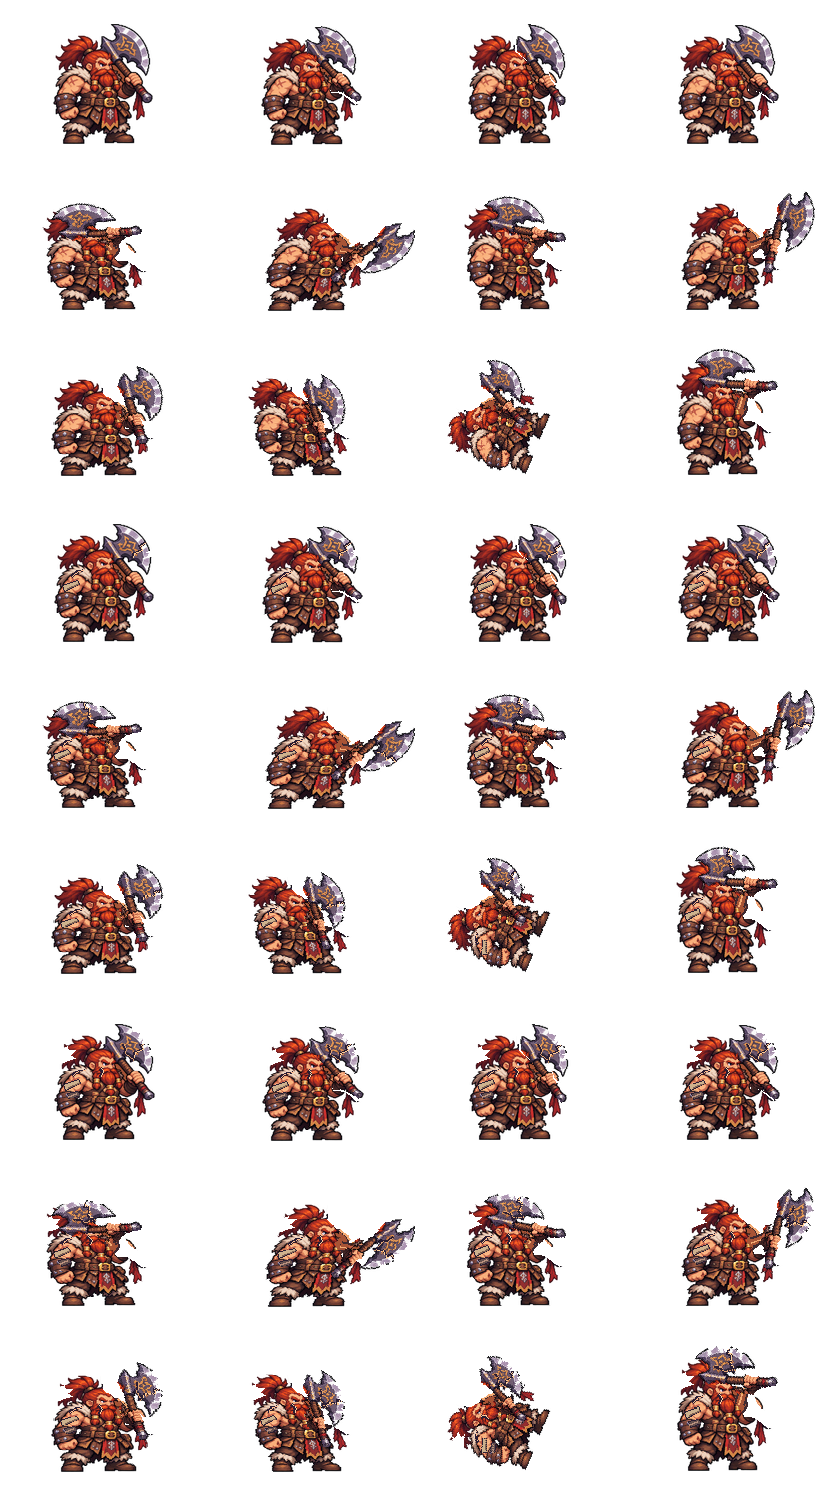
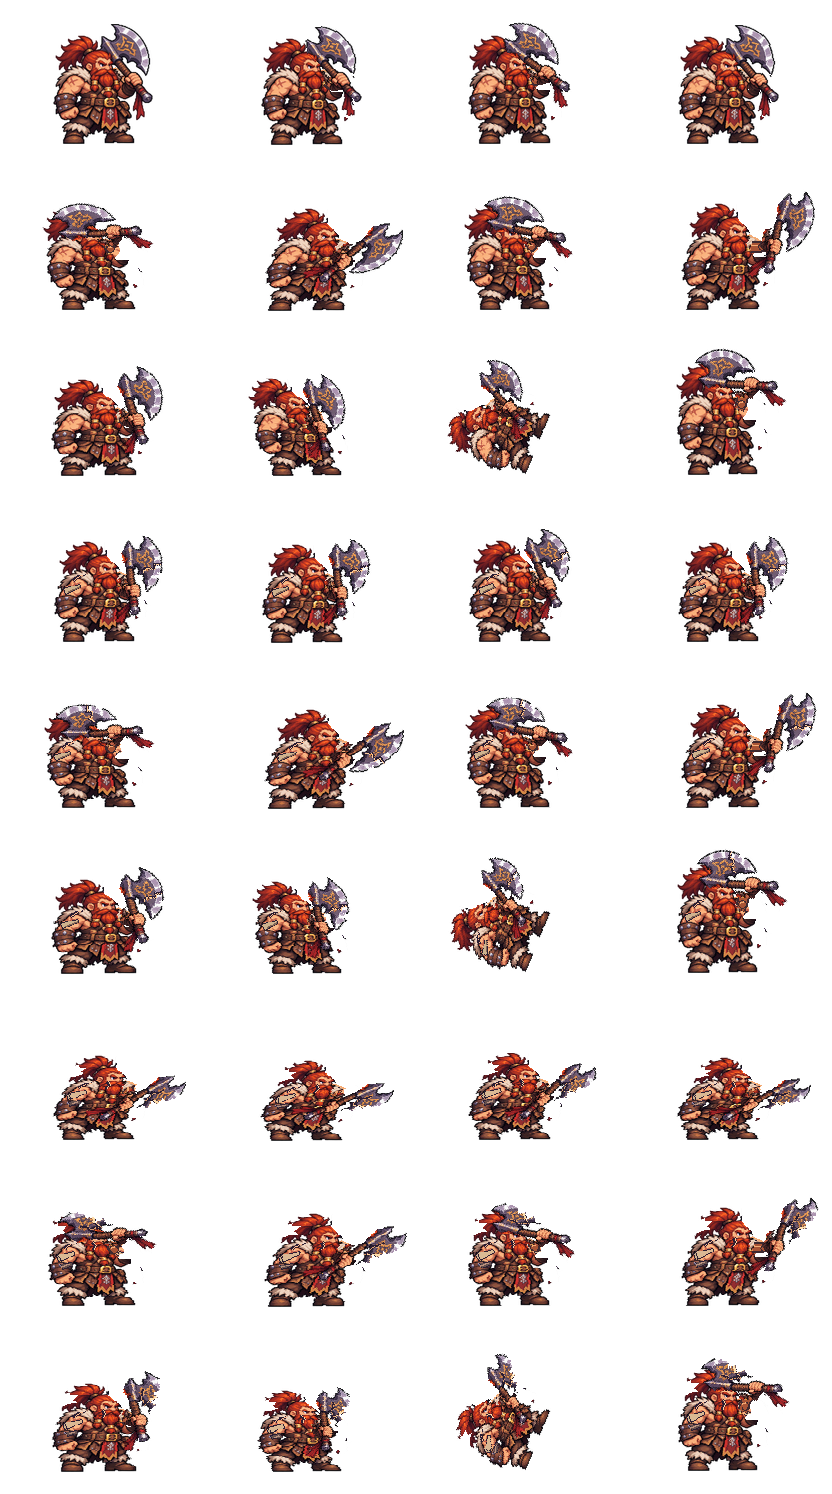
Show exhaustion in broken equipment, bent knees and class-specific idle gestures

diff --git a/scripts/build-fighter-skins.py b/scripts/build-fighter-skins.py
@@ -7,8 +7,9 @@ three rows of poses for each of the three health bands.
 
 from math import cos, radians, sin
 from pathlib import Path
+from argparse import ArgumentParser
 
-from PIL import Image, ImageChops, ImageDraw
+from PIL import Image, ImageChops, ImageDraw, ImageFont
 
 
 ROOT = Path(__file__).resolve().parents[1]
@@ -27,28 +28,28 @@ POSES = ('idle', 'breathe', 'survey', 'settle', 'windup', 'strike',
 # underpainting. Only the area normally hidden behind a moving prop is painted.
 RIGS = {
     'guardian': {
-        'weapon': [(64,49),(70,44),(77,44),(84,39),(99,46),(99,77),(93,90),(87,98),(83,100),(74,91),(68,78),(64,64)],
+        'weapon': [(64,49),(70,44),(77,44),(83,37),(99,42),(99,83),(94,91),(87,100),(79,94),(72,85),(68,78),(64,64)],
         'pivot': (69,65), 'shoulder': (61,60), 'cuff': (73,65),
-        'under': [(54,51),(66,47),(74,53),(77,66),(71,76),(65,88),(54,80)],
+        'under': [(54,51),(65,43),(71,39),(76,41),(79,48),(75,55),(77,66),(71,76),(65,88),(54,80)],
         'colors': ('#302237','#646078','#e5b15e'),
         'damage': 'plate', 'sway': 0.85,
     },
     'berserker': {
-        'weapon': [(47,0),(99,0),(99,49),(94,52),(79,43),(83,54),(93,63),(99,64),(99,77),(94,78),(83,69),(76,66),(70,66),(67,60),(62,55),(61,51),(65,46),(62,39),(49,27)],
+        'weapon': [(47,0),(99,0),(99,49),(95,52),(85,44),(80,43),(85,47),(90,55),(93,62),(99,64),(99,79),(94,79),(89,73),(92,90),(90,95),(83,91),(79,96),(78,84),(82,65),(76,65),(70,65),(67,60),(62,55),(61,51),(65,46),(62,39),(49,27)],
         'pivot': (70,51), 'shoulder': (66,55), 'cuff': (73,54),
-        'under': [(52,36),(62,37),(69,43),(73,48),(74,57),(66,65),(55,61)],
+        'under': [(53,44),(62,43),(68,46),(73,49),(74,57),(66,65),(55,61)],
         'colors': ('#3e2930','#a85436','#f4ab74'),
         'damage': 'fur', 'sway': 1.28,
     },
     'chronomancer': {
-        'weapon': [(74,0),(91,0),(96,15),(91,21),(99,28),(99,44),(86,49),(81,52),(80,59),(77,92),(77,107),(74,118),(69,119),(67,112),(68,87),(70,63),(66,55),(69,49),(74,45),(62,41),(57,37),(58,30),(63,24),(64,16),(68,8)],
+        'weapon': [(74,0),(91,0),(99,15),(99,44),(86,49),(81,52),(80,59),(77,92),(77,107),(74,118),(69,119),(67,112),(69,100),(71,96),(73,63),(68,59),(69,49),(74,45),(65,42),(62,37),(62,29),(63,24),(61,22),(61,16),(68,8)],
         'pivot': (75,54), 'shoulder': (61,58), 'cuff': (75,54),
         'under': [(55,56),(66,52),(73,49),(77,53),(73,61),(60,65)],
         'colors': ('#272642','#56509a','#d4a2ec'),
         'damage': 'silk', 'sway': 1.02,
     },
     'alchemist': {
-        'weapon': [(84,11),(98,11),(99,23),(99,40),(94,44),(86,47),(81,55),(74,60),(69,55),(69,49),(74,45),(78,39),(83,36),(79,33),(79,24)],
+        'weapon': [(84,11),(98,11),(99,23),(99,42),(94,45),(87,48),(82,57),(76,63),(68,58),(68,49),(74,44),(79,38),(83,34),(79,33),(79,24)],
         'pivot': (75,51), 'shoulder': (65,54), 'cuff': (78,47),
         'under': [(60,49),(67,46),(71,47),(77,51),(75,57),(69,62),(61,59)],
         'colors': ('#30252b','#6d6142','#bca576'),
@@ -114,6 +115,8 @@ def damaged(source, role, tier):
             tear([(0,87),(10,94),(11,89),(18,97),(18,102),(26,109),(0,108)])
             crack([(72,47),(73,55),(80,62),(80,70),(87,76),(84,88)], '#c49f70')
             crack([(50,29),(52,36),(58,37),(61,42)], '#e3aa72')
+            tear([(94,57),(100,55),(100,100),(84,100),(87,88),(80,84),(90,78),(83,75),(94,68),(88,65)])
+            crack([(89,59),(85,65),(89,69),(79,74)], '#fff0b2')
     elif role == 'berserker':
         crack([(90,18),(84,22),(86,26),(78,29),(77,34)], '#ffce99')
         crack([(17,53),(23,48),(28,47)], '#ffbd91')
@@ -127,6 +130,9 @@ def damaged(source, role, tier):
             draw.polygon([(12,71),(22,69),(25,73),(14,77)], fill='#66514e',outline=dark)
             draw.line([(13,74),(21,71)],fill='#bd9380',width=2)
             crack([(44,45),(47,49),(45,54)], '#ffd1a1')
+            tear([(83,0),(100,0),(100,47),(93,53),(84,40),(87,33),(79,30),(84,24),(77,20),(82,15),(78,10)])
+            draw.line([(82,23),(78,28),(85,32)],fill='#ffe0ae',width=2)
+            draw.polygon([(10,60),(25,56),(27,60),(13,68)],fill='#dab994',outline=dark)
     elif role == 'chronomancer':
         crack([(75,25),(79,29),(76,32),(81,35)], '#e7dfea')
         tear([(8,103),(13,99),(12,107),(19,104),(14,115),(5,118)])
@@ -140,6 +146,9 @@ def damaged(source, role, tier):
             draw.line([(75,34),(80,35)],fill='#7df0de',width=1)
             crack([(41,94),(47,91),(45,86),(51,82)], '#c79bbc')
             tear([(27,24),(34,23),(34,27),(40,27),(33,31),(25,31)])
+            tear([(63,0),(97,0),(97,24),(89,25),(86,18),(81,22),(80,16),(76,20),(72,16),(66,21),(63,17)])
+            tear([(0,86),(14,80),(11,91),(21,84),(18,94),(26,88),(21,100),(11,110),(0,115)])
+            crack([(32,76),(43,80),(38,85),(46,89),(40,97)], '#d5a6d9')
     else:
         crack([(88,24),(92,26),(89,29),(94,31)], '#e7ffa0')
         crack([(22,66),(29,64),(32,68)], '#d7a776')
@@ -154,6 +163,10 @@ def damaged(source, role, tier):
             draw.rectangle((52,66,58,77),fill='#523b32',outline=dark)
             crack([(53,22),(57,25),(54,28),(58,31)], '#dbc29a')
             draw.line([(89,34),(87,38),(88,43),(85,47)],fill='#96d83c',width=2)
+            tear([(0,0),(33,0),(29,10),(20,13),(23,17),(15,15),(18,24),(10,20),(10,30),(0,28)])
+            tear([(78,8),(100,8),(100,26),(94,24),(92,20),(89,23),(87,19),(83,23),(80,20)])
+            tear([(8,85),(16,91),(13,97),(21,93),(20,102),(27,103),(22,111),(4,106)])
+            draw.polygon([(39,66),(44,64),(46,74),(44,85),(40,88),(41,76)],fill='#b78e58',outline=dark)
     ink.putalpha(ImageChops.multiply(ink.getchannel('A'),art.getchannel('A')))
     return Image.alpha_composite(art,ink)
 
@@ -162,13 +175,51 @@ def damaged(source, role, tier):
 # silhouettes have different preparations and contact points for the same beat.
 GESTURES = {
     'guardian': [(0,0,0),(2,0,-1),(-5,1,-2),(1,0,0),(-24,-5,-4),(31,19,-8),(-15,0,-8),(-32,11,-16),(-12,8,-5),(20,-7,6),(58,0,6),(-25,0,-13)],
-    'berserker': [(0,0,0),(-4,-1,-1),(4,0,1),(-2,0,0),(-55,-9,-9),(78,15,5),(-40,-4,-8),(45,15,-7),(22,3,-2),(34,-6,5),(61,0,8),(-48,-2,-15)],
+    'berserker': [(0,0,0),(-4,-1,-1),(4,0,1),(-2,0,0),(-55,-9,-9),(78,4,5),(-40,-4,-8),(45,15,-7),(22,3,-2),(34,-6,5),(61,0,8),(-48,-2,-15)],
     'chronomancer': [(0,0,0),(-2,0,-2),(4,1,-3),(0,0,-1),(-28,-6,0),(51,13,4),(-22,-5,-8),(32,14,-4),(-12,-2,-3),(19,-6,5),(57,0,5),(-17,-1,-13)],
     'alchemist': [(0,0,0),(-5,0,-1),(-16,-4,-5),(2,0,0),(-55,-10,-8),(66,12,6),(-40,-6,-10),(42,14,-9),(-18,-4,-2),(27,-6,6),(64,0,4),(-32,-1,-13)]
 }
 BODY = [(0,1,1,0),(0,1,.985,1),(-.022,1,1,0),(.012,1,.992,0),
         (-.105,1.02,.93,0),(.15,1.06,.94,1),(-.07,.98,.96,0),(.10,1.01,.985,0),
         (.012,1.05,.89,0),(-.15,.97,.90,0),(0,1,.86,0),(-.038,.97,1.025,-1)]
+
+# The critical idle rigs bend at the knee, hips and shoulders. Each carries
+# its battered prop differently. The last three values turn and lower the arm.
+WEAR = {
+    'guardian': ((14,11,3,-5),(20,14,8,4),(22,-2,13)),
+    'berserker': ((19,11,2,-6),(27,17,9,4),(83,4,13)),
+    'chronomancer': ((16,10,3,-3),(22,14,8,3),(35,-2,16)),
+    'alchemist': ((23,15,1,-4),(28,20,10,4),(94,-2,18)),
+}
+SURVEY = {'guardian':(-18,-2,-6),'berserker':(-15,-2,-4),
+          'chronomancer':(12,2,-3),'alchemist':(-29,-5,-7)}
+
+def stoop(layer,role,weight):
+    # A continuous piecewise mesh keeps the illustrated joints attached. Both
+    # shoes retain their baseline through every degree of the exhausted stance.
+    offsets,drops,_=WEAR[role]
+    silhouette=[-45,0,42,77,99,119,170]
+    shifts=[offsets[0],*offsets,0,0]
+    lowering=[drops[0],*drops,0,0]
+    src=[ORIGIN[1]+y for y in silhouette]
+    dst=[y+round(drop*weight) for y,drop in zip(src,lowering)]
+    mesh=[]
+    for i in range(len(dst)-1):
+        a,b=-round(shifts[i]*weight),-round(shifts[i+1]*weight)
+        mesh.append(((0,dst[i],WORK[0],dst[i+1]),(a,src[i],b,src[i+1],WORK[0]+b,src[i+1],WORK[0]+a,src[i])))
+    return layer.transform(WORK,Image.Transform.MESH,mesh,NEAREST)
+
+def extending_arm(base,rig,dx,dy):
+    shoulder=point(rig['shoulder'])
+    cuff=point((rig['cuff'][0]+dx,rig['cuff'][1]+dy))
+    elbow=(round((shoulder[0]+cuff[0])*.5),round((shoulder[1]+cuff[1])*.5)+4)
+    dark,mid,light=rig['colors']
+    limb=ImageDraw.Draw(base)
+    limb.line([shoulder,elbow,cuff],fill=dark,width=12,joint='curve')
+    limb.line([shoulder,elbow,cuff],fill=mid,width=8,joint='curve')
+    limb.line([(shoulder[0],shoulder[1]-2),(elbow[0]-1,elbow[1]-1)],fill=light,width=2)
+    limb.ellipse((elbow[0]-4,elbow[1]-4,elbow[0]+4,elbow[1]+4),fill=mid,outline=dark)
+    limb.line([(elbow[0]-2,elbow[1]-2),(elbow[0]+1,elbow[1]-3)],fill=light,width=2)
 
 
 def frames(role,tier):
@@ -183,26 +234,42 @@ def frames(role,tier):
     under = Image.new('RGBA',MODEL)
     paint = ImageDraw.Draw(under)
     paint.polygon(rig['under'],fill=rig['colors'][1],outline=rig['colors'][0],width=2)
+    # Reconstruct the armor, fur or cloth under a lifted arm by sampling
+    # matching brushwork from the opposite shoulder, clipped to the new outline.
+    mirrored=source.transform(MODEL,Image.Transform.AFFINE,(-1,0,96,0,1,0),NEAREST)
+    mirrored.putalpha(ImageChops.multiply(mirrored.getchannel('A'),polygon(rig['under'])))
+    under.alpha_composite(mirrored)
     paint.line(rig['under'][1:4],fill=rig['colors'][2],width=2)
+    if role=='chronomancer':
+        paint.polygon([(65,65),(72,65),(72,73),(80,79),(84,87),(82,95),(76,96),(69,90),(63,86)],
+                      fill='#4c3c72',outline='#211d38')
+        paint.line([(70,69),(74,80),(80,86),(79,91)],fill='#8e74bc',width=2)
     under.alpha_composite(body)
     for index, (angle,dx,dy) in enumerate(GESTURES[role]):
+        weight=(0,.33,1)[tier]
+        if index==2:
+            angle,dx,dy=SURVEY[role]
+        if index<4 and tier:
+            fatigue=(1,1.10,.88,1.04)[index]*weight
+            arm_turn,arm_x,arm_drop=WEAR[role][2]
+            angle=angle*(1-weight*.78)+arm_turn*fatigue
+            dx+=round(arm_x*fatigue)
+            dy+=round(arm_drop*fatigue)
         hand = place(weapon)
         base = place(under)
         if dx or dy:
-            shoulder = point(rig['shoulder'])
-            cuff = point((rig['cuff'][0]+dx,rig['cuff'][1]+dy))
-            limb = ImageDraw.Draw(base)
-            for width,color in zip((11,7,2),rig['colors']):
-                limb.line((shoulder,cuff),fill=color,width=width)
+            extending_arm(base,rig,dx,dy)
         base.alpha_composite(move(hand,point(rig['pivot']),angle=angle,shift=(dx,dy)))
+        if tier:
+            weight*=((1,1.10,.88,1.04)[index] if index<4 else (.75 if index==9 else .36))
+            base=stoop(base,role,weight)
         lean,sx,sy,bob=BODY[index]
         if index == 10:  # Collapse toward the floor around the hips, without cutting off the feet.
             positioned=move(base,point((51,83)),angle=-67,shift=(-8,20),scale=(.9,.83))
             bottom = positioned.getbbox()[3]
             positioned=move(positioned,(0,0),shift=(0,ORIGIN[1]+MODEL[1]-bottom))
         else:
-            wear = .018*tier if index<4 else 0
-            positioned=move(base,point((50,118)),lean=lean*rig['sway']+wear,scale=(sx,sy-wear),shift=(0,bob))
+            positioned=move(base,point((50,118)),lean=lean*rig['sway'],scale=(sx,sy),shift=(0,bob))
         yield positioned.crop(CROP)
 
 
@@ -216,5 +283,36 @@ def build():
         sheet.save(OUTPUT/(role+'-founder.png'),optimize=True)
 
 
+def contact_sheet(path):
+    """Three injury stages side by side at 120px and 60px standing heights."""
+    page=Image.new('RGB',(1000,710),'#201e2a')
+    draw=ImageDraw.Draw(page)
+    try:
+        large=ImageFont.truetype('arialbd.ttf',22)
+        normal=ImageFont.truetype('arial.ttf',16)
+    except OSError:
+        large=normal=ImageFont.load_default()
+    draw.text((20,12),'RIFTBOUND   /   FOUNDER SKINS',font=large,fill='#ffe4b6')
+    for i,title in enumerate(['Healthy   >65%','Wounded   31-65%','Critical   0-30%']):
+        draw.text((138+i*276,53),title,font=normal,fill='#efe1d3')
+    for row,role in enumerate(RIGS):
+        y=78+row*155
+        draw.rectangle((12,y,988,y+149),fill=('#302c3d' if row%2==0 else '#292938'))
+        draw.text((21,y+62),role.title(),font=normal,fill='#f0d9ad')
+        for tier in range(3):
+            frame=next(frames(role,tier))
+            x=120+tier*278
+            draw.line((x+16,y+138,x+254,y+138),fill='#5b5362')
+            page.paste(frame,(x-2,y-5),frame)
+            small=frame.resize((104,83),NEAREST)
+            page.paste(small,(x+170,y+67),small)
+    path.parent.mkdir(parents=True,exist_ok=True)
+    page.save(path)
+
+
 if __name__ == '__main__':
+    parser=ArgumentParser()
+    parser.add_argument('--review',type=Path,help='also save a labeled studio/mobile health-stage contact sheet')
+    args=parser.parse_args()
     build()
+    if args.review:contact_sheet(args.review)
